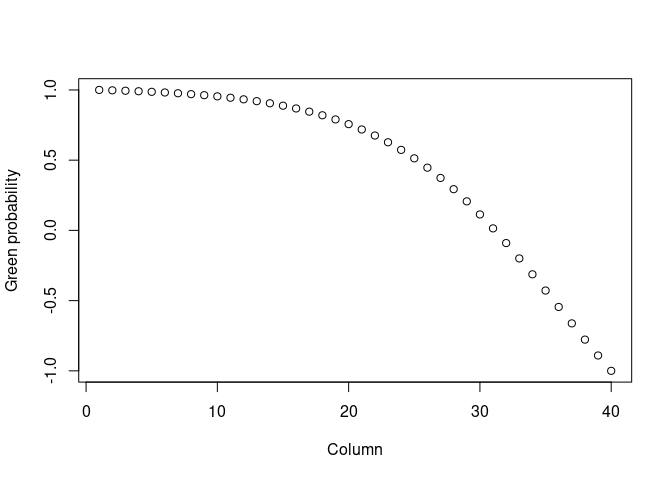
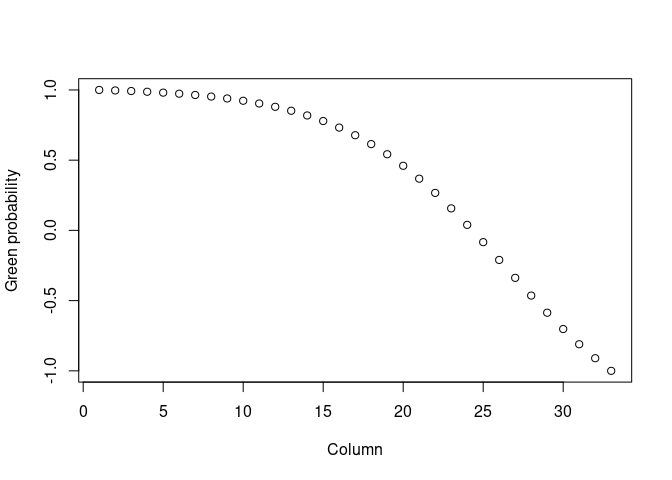
Finalize readme

diff --git a/README.md b/README.md
@@ -9,22 +9,25 @@ them in your house decor?
 In this project, I document the process of painting a hexagon wall
 panel, from the planning to execution.
 
-Some might call it overkill, but the journey was the destination itself.
-
-## Goal
+## 1. Goal
 
 I want to paint one of my walls green, but not the entire wall. I want
 it to start with solid green and then transition to white. The
 transition will by having an increasing number of white hexagons, until
 it transitions entirely to white.
 
-## Planning the panel
+The wall to be painted is 223 cm high and 400 cm wide. Here are the main
+rules I decided on:
 
-The wall to be painted is 223 cm high and 400 cm wide. I will use
-hexagons with a diameter of 20 cm. Around the green hexagons (i.e. when
-the green is no longer fully solid), there will be a 1 cm white border.
+1.  I want to simulate panels based on a matrix of probabilities. Each
+    cell will hold the probability of a hexagon being green.
+2.  I want these hexagons to be 20 cm wide, but if the hexagon is in a
+    border, it should be 19, to leave a gap between the isolated
+    hexagons and the solid parts of the panel.
 
-### If you wish to draw a hexagon grid, you must offset their coordinates
+## 2. Implementation
+
+### 2.1 If you wish to draw a hexagon grid, you must first offset their coordinates
 
 I will not go too in depth into this section, but will instead refer you
 to the [red blob games
@@ -35,14 +38,13 @@ If you wish to see the code, you can find it in the `generator.R` file.
 
 I want the hexagon panel grids to be automatically generated. I will
 create a matrix of 0s and 1s. Then, I will use this matrix to draw the
-hexagons (0 = white hexagon; 1 = green hexagon)
+hexagons (0 = white hexagon; 1 = green hexagon).
 
-**To decide if a cell is 0 or 1, I will use random generations from from
-the binomial distribution**. To do so, we need to start with a matrix
-that holds the probability of each cell being colored. Let’s start with
-filling this matrix.
+### 2.2 Coloring probability matrix
 
-### Creating a coloring probability matrix
+To decide if a cell is 0 or 1, I will use random generations from from
+the binomial distribution. I need to start with a matrix that holds the
+probability of each cell being colored.
 
 First, I will create a matrix to store the probability that a cell is
 green. So, let’s start by deciding the size our matrix:
@@ -50,10 +52,10 @@ green. So, let’s start by deciding the size our matrix:
 ``` r
 hex_radius <- 10
 hex_gap <- 1
-# Width of the wall section = 300 cm
-n_col <- ceiling(400 / hex_radius)
+# Width of the wall section = 400 cm
+n_col <- ceiling(500 / ((3/2 * hex_radius))) - 1
 # Height of the wall section = 223 cm
-n_row <- floor(223 / hex_radius)
+n_row <- floor(223 /(sqrt(3) * hex_radius)) -1
 ```
 
 So, our wall will be a `n_row` by `n_col` matrix. I want the wall to
@@ -64,13 +66,13 @@ $$f(x) = \frac{L}{1 + e^{-k(x - x_0)}}$$
 
 Where $L$ is the maximum value, $k$ is the growth rate, and $x_0$ is the
 midpoint. I will use a modified version of the logistic function, where
-$L$ is 1, $k$ is positive, at 0.15, and $x_0$ is 90% of the maximum
-value. This will give me a function that starts at 0, increases slowly,
-and then increases rapidly. We can visualize this as a function of the
-column number (or the distance along the wall):
+$L$ is 1, $k$ is negative, and $x_0$ is 80% of the panel width. This
+will give me a function that starts at 1, decreases slowly, and then
+decreases rapidly. We can visualize this as a function of the column
+number (or the distance along the wall):
 
 ``` r
-horizontal_grad <- modified_logistic(1:n_col, n_col * 0.9, 0.15)
+horizontal_grad <- modified_logistic(1:n_col, n_col * 0.8, -0.2)
 plot(horizontal_grad, xlab = "Column", ylab = "Green probability")
 ```
 
@@ -81,20 +83,21 @@ Let’s visualize what this would look like as a wall panel:
 ``` r
 wall <- create_matrix_binom(matrix(data = 0, nrow = n_row, ncol = n_col), horizontal_grad, gain = 0.2)
 
-create_panel(wall, 10)
+draw_panel(wall, 10)
 ```
 
 ![](README_files/figure-commonmark/unnamed-chunk-3-1.png)
 
 It’s not bad at all! But I want to add some randomness to it. To do so,
-I will use the **perlin noise** algorithm. This algorithm generates a
-matrix of spatially correlated random numbers. This means that the
-matrix will have some smoothness to it, and there will be “spots” where
-the probability of coloring is higher than others.
+I will use the **perlin noise** algorithm to increase the variability of
+the panel. This algorithm generates a matrix of spatially correlated
+random numbers. This means that the probability matrix will have some
+terrain-like properties, and there will be “spots” where the probability
+of coloring is higher than others.
 
 ``` r
 set.seed(13)
-noise <- noise_perlin(dim = c(n_row, n_col), frequency = 0.2)
+noise <- noise_perlin(dim = c(n_row, n_col), frequency = 0.3)
 image(t(noise))
 ```
 
@@ -106,28 +109,60 @@ is lower. Let’s add this to our wall panel probabilities. We’ll also use
 some “gain” to increase the bias towards green. After all, this is more
 art than science.
 
-``` r
-wall <- create_matrix_binom(noise, horizontal_grad, gain = 0.2)
+Now, let’s create the final wall panel using the sum of these two
+distribution matrices. I will also use a gain to increase the bias
+towards white. As for the radius of the edge hexagons, I decided that if
+3 or more of the 6 neighbors of a hexagon are missing, it will be
+considered an edge hexagon, with a smaller radius.
 
-create_panel(wall, 10)
+``` r
+wall <- create_matrix_binom(noise, horizontal_grad, gain = 0.05)
+
+draw_panel(wall, hex_radius = 10, missing_neighbors = 3)
 ```
 
 ![](README_files/figure-commonmark/unnamed-chunk-5-1.png)
 
 Now we’re talking! This is a good starting point. We have some white
 hexagons in the mostly solid section, and the green hexagons cluster a
-little more towards the right side. The difference isn’t huge, but
-that’s mostly because this is a “low resolution” panel.
+little more towards the right side. This will be my final version.
 
-### Creating the panel
+## 3. Painting the wall
 
-I added a hand little option to my function that shows the middle
-coordinates of each hexagon. This will help me set up the panel before
-painting it. Let’s print the panel again, but with coordinates and
-increase the size to make it easier to read.
+I added an option to my function that shows the middle coordinates of
+each hexagon. This will help me set up the panel before painting it.
+Let’s print the panel again, but with coordinates and increase the size
+to make it easier to read:
 
 ``` r
-create_panel(wall, 10, coords = T)
+draw_panel(wall, hex_radius = 10, coords = T, missing_neighbors = 3, cex = 0.8)
 ```
 
 ![](README_files/figure-commonmark/unnamed-chunk-6-1.png)
+
+In this image, the coordinates show are as follows: x (center, in cm) y
+(center, in cm) col number - row number
+
+And now it’s time to paint! I used a laser cutter to create stencils to
+pain, and this is the final result:
+
+<img src="README_files/final-panel.jpg" width="800"
+alt="Mostly finalized panel" />
+
+## 4. Additional functionality
+
+### 4.1 Color by number of neighbors
+
+I played around with the idea of coloring the hexagons based on the
+number of neighbors they have. This function assigns a color to a
+hexagon based on the number of missing neighbors. I didn’t want too much
+color, so gave up on the functionality, but I’ll leave the code here for
+future reference.
+
+``` r
+colors <- define_colors(wall, colors = c("#60AA20", "red"))
+
+draw_panel(wall, hex_radius = 10, missing_neighbors = 3, color = colors)
+```
+
+![](README_files/figure-commonmark/unnamed-chunk-7-1.png)
